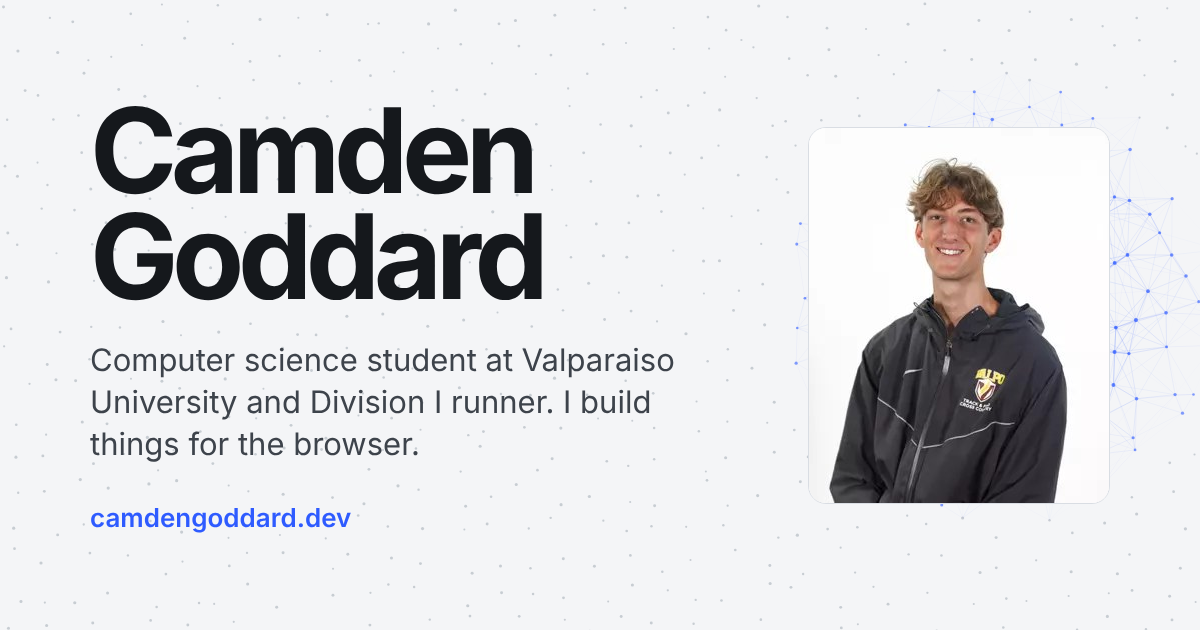
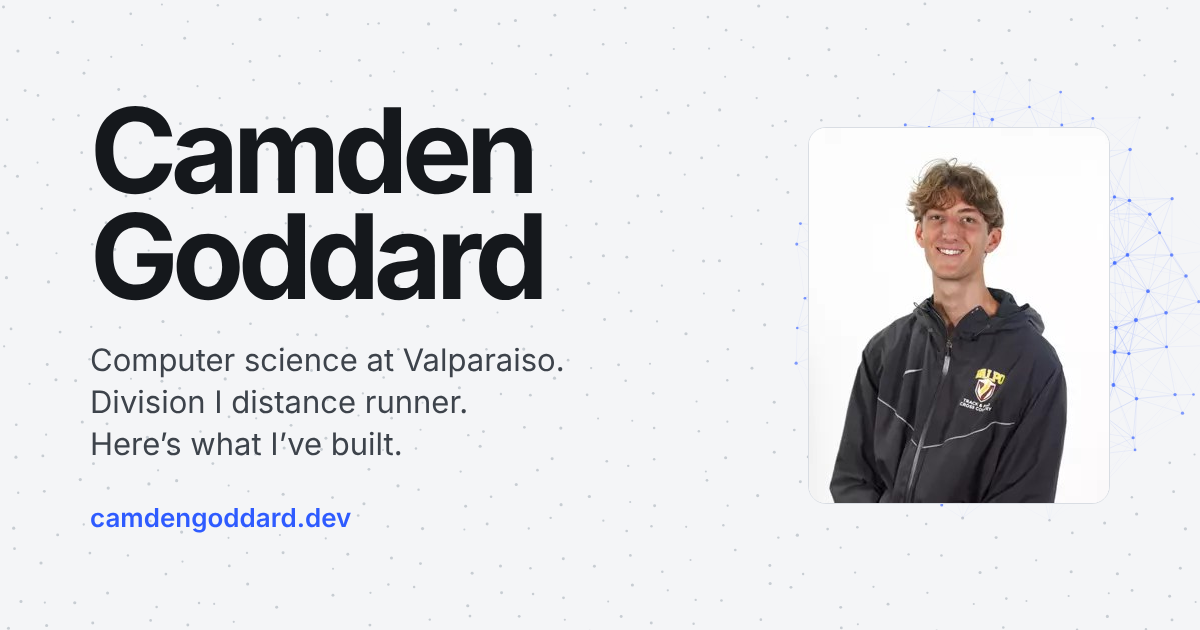
New tagline

Changed region(s): [[0.0617, 0.5429, 0.555, 0.6635], [0.0617, 0.6937, 0.3392, 0.7238]]

diff --git a/index.html b/index.html
@@ -4,17 +4,17 @@
 <meta charset="UTF-8">
 <meta name="viewport" content="width=device-width, initial-scale=1.0">
 <title>Camden Goddard</title>
-<meta name="description" content="Camden Goddard: computer science student at Valparaiso University and Division I distance runner. Projects, resume and contact.">
+<meta name="description" content="Camden Goddard: computer science at Valparaiso University and Division I distance runner. Projects, resume and contact.">
 <meta property="og:title" content="Camden Goddard">
-<meta property="og:description" content="CS student at Valparaiso University building things for the browser.">
+<meta property="og:description" content="Computer science at Valparaiso. Division I distance runner. Here’s what I’ve built.">
 <meta property="og:type" content="website">
 <meta property="og:url" content="https://camdengoddard.dev/">
-<meta property="og:image" content="https://camdengoddard.dev/assets/og.png">
+<meta property="og:image" content="https://camdengoddard.dev/assets/og.png?v=2">
 <meta property="og:image:width" content="1200">
 <meta property="og:image:height" content="630">
 <meta property="og:image:alt" content="Camden Goddard: computer science student at Valparaiso University and Division I runner">
 <meta name="twitter:card" content="summary_large_image">
-<meta name="twitter:image" content="https://camdengoddard.dev/assets/og.png">
+<meta name="twitter:image" content="https://camdengoddard.dev/assets/og.png?v=2">
 <link rel="canonical" href="https://camdengoddard.dev/">
 <link rel="icon" href="assets/favicon.svg" type="image/svg+xml">
 <link rel="preconnect" href="https://fonts.googleapis.com">
@@ -39,7 +39,7 @@
 
   <section class="hero">
     <h1>Camden<br>Goddard</h1>
-    <p class="lede">I study computer science at Valparaiso University and run Division I cross country and track. I like building things people can open in a browser and use right away.</p>
+    <p class="lede">Computer science at Valparaiso University. Division I distance runner. Here’s what I’ve built.</p>
     <ul class="links">
       <li><a class="btn" href="assets/Camden_Goddard_Resume.pdf">Download resume</a></li>
       <li><a href="https://github.com/CamdenGoddard">GitHub</a></li>
